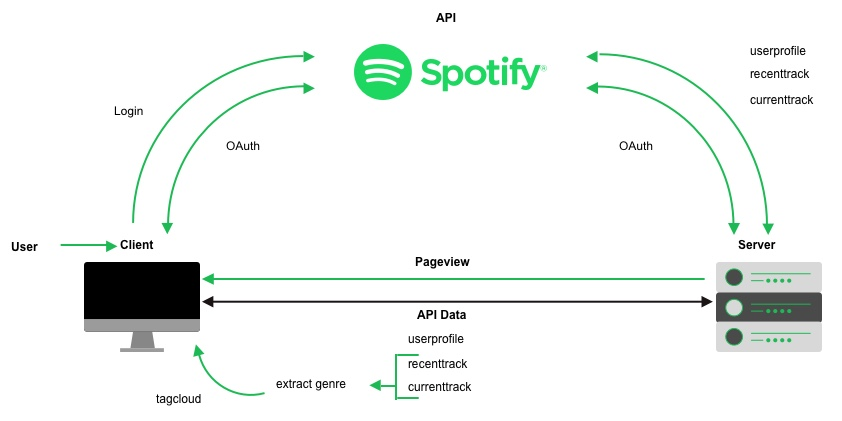
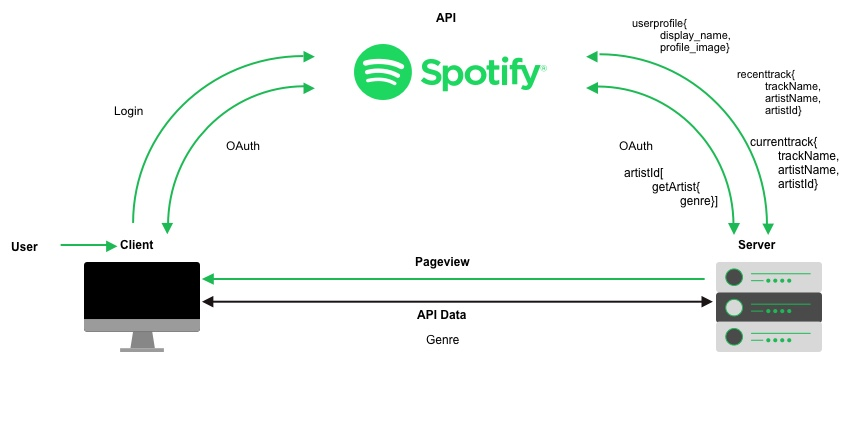
DLC update

diff --git a/docs/css/styles.css b/docs/css/styles.css
@@ -26,7 +26,7 @@ h1,h2{
     justify-content: center;
 }
 h1{
-
+    margin-top: 1em;
 }
 /*
 ========================================================
@@ -72,4 +72,22 @@ p{
     line-height: 1.4;
     font-weight: 500;
     color: #929292;
+}
+form{
+    display: flex;
+    justify-content: center;
+    align-content: center;
+    margin-top: 10em;
+}
+button{
+    color: white;
+    background-color: #1db954;
+    font-size: 1em;
+    border: 0;
+    border-radius: 5px;
+    margin: 0 10px 0 0;
+    padding: 0.8em 2.4em 0.8em 2.4em;
+}
+button:hover{
+    cursor: pointer;
 }

diff --git a/README.md b/README.md
@@ -1,5 +1,6 @@
 # Real-Time Web @cmda-minor-web · 2019-2020
 
+
 During this course you will learn how to build a **meaningful** real-time application. You will learn techniques to setup an open connection between the client and the server. This will enable you to send data in real-time both ways, at the same time.
 
 ## Concept
@@ -11,19 +12,24 @@ Creating a room where users with a spotify account can discover new or known gen
 * ```npm install``` to install the node modules.
 * And then to run the application ```node server.js```.
 
-
-
 ## DLC
 ![DLC](https://github.com/NathanKeyzer/real-time-web-1920/blob/master/docs/img/DLC.jpg?raw=true)
 
-
 ## External API
 For this application i'm using the [Spotify API](https://developer.spotify.com/documentation/web-api/)
-scopes
-endpoints
+* Scopes i will use
+    - user-read-email
+    - user-read-currently-playing
+    - user-read-recently-played
+    - streaming
+* Endpoints
+    - https://api.spotify.com/v1/me/
+    - https://api.spotify.com/v1/me/player/recently-played
+    - https://api.spotify.com/v1/artists/{id}
 ## Real Time Events
 * Currently playing song from user.
-* Rooms with friends/ room codes.
+* Rooms with friends/room codes.
 * Hover on genre to see which user is listening.
 ### Wishlist
-* when user clicks on genre you they will see an overview of artist from this genre.
+* User can see artist by genre.
+* User can generate a playlist by genre.
